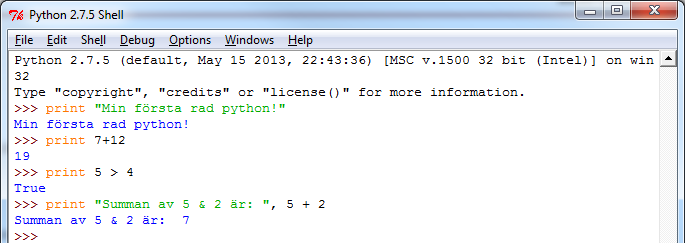
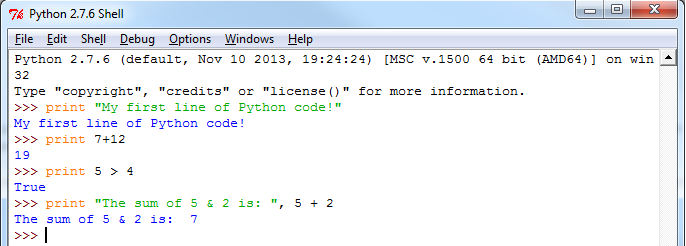
Updated exercises with new_names_for_functions_and_variables

Changed region(s): [[0.0, 0.0, 1.0, 1.0], [0.0, 0.6626, 0.4905, 0.9218], [0.0, 0.9506, 0.0613, 1.0]]

diff --git a/modules/m2/exercises/L04.md b/modules/m2/exercises/L04.md
@@ -18,10 +18,10 @@ print "*"*30
 print "Välkommen " + name + "!"
 print "I detta program kan du mulitplicera tre tal med varandra - så beräknar vi produkten åt dig."
 print "Du kommer nu att får mata in de tre tal som du vill multiplicera med"
-num1 = int(raw_input("Vilket är tal nr.1: "))
-num2 = int(raw_input("Vilket är tal nr.2: "))
-num3 = int(raw_input("Vilket är tal nr.3: "))
-result = num1 * num2 * num3
+num_1 = int(raw_input("Vilket är tal nr.1: "))
+num_2 = int(raw_input("Vilket är tal nr.2: "))
+num_3 = int(raw_input("Vilket är tal nr.3: "))
+result = num_1 * num_2 * num_3
 print "Produkten av dina valda tal är: " + str(result)
 print "*"*30
 {% endhighlight %}
@@ -29,17 +29,17 @@ print "*"*30
 Detta program skulle vi kunna dela upp i mindre bitar - för att få en bättre och tydligare struktur. T.ex. såhär:
 
 {% highlight python linenos %}
-def multiplyProgram():
+def multiply_program():
     ''' Huvudfunktionen för multiplikationsprogrammet '''
-    name = getName()
+    name = get_name()
     welcome(name)
-    num1 = getNumber(1)
-    num2 = getNumber(2)
-    num3 = getNumber(3)
-    result = multiplyThreeNumbers(num1, num2, num3)
-    printResult(result)
+    num_1 = get_number(1)
+    num_2 = get_number(2)
+    num_3 = get_number(3)
+    result = multiply_three_numbers(num_1, num_2, num_3)
+    print_result(result)
 	
-def getName():
+def get_name():
     ''' Frågar besökaren efter namn '''
     return raw_input("Vad heter du? ")
 
@@ -49,38 +49,38 @@ def welcome(name):
     print "I detta program kan du mulitplicera tre tal med varandra - så beräknar vi produkten åt dig."
     print "Du kommer nu att får mata in de tre tal som du vill multiplicera med"
 
-def getNumber(number):
+def get_number(number):
     ''' Frågar användaren efter ett tal '''
     return raw_input("Vilket är tal nr." + str(number) + ": ")
 
-def multiplyThreeNumbers(number1, number2, number3):
+def multiply_three_numbers(number_1, number_2, number_3):
     ''' Beräknar produkten av tre tal '''
-    return int(number1) * int(number2) * int(number3)
+    return int(number_1) * int(number_2) * int(number_3)
 
-def printResult(result):
+def print_result(result):
     ''' Skriver ut resultatet och tackar användaren '''
     print "Produkten av dina valda tal är: " + str(result)
     print "*"*30
 
-multiplyProgram()
+multiply_program()
 {% endhighlight %}
 
-Själva programmet ovan styrs av funktionen `multiplyProgram` (som sedan använder sig utav de övriga funktionerna) som vi kör längst ner i vårt kodexempel ovan. Skulle man vilka "optimera" funktionen `multiplyProgram` så skulle man kunna skriva funktionen på detta sätt:
+Själva programmet ovan styrs av funktionen `multiply_program` (som sedan använder sig utav de övriga funktionerna) som vi kör längst ner i vårt kodexempel ovan. Skulle man vilka "optimera" funktionen `multiply_program` så skulle man kunna skriva funktionen på detta sätt:
 
 {% highlight python linenos %}
-def multiplyProgram():
+def multiply_program():
     ''' Huvudfunktionen för multiplikationsprogrammet '''
-    welcome(getName())
-    printResult(multiplyThreeNumbers(getNumber(1), getNumber(2), getNumber(3)))
+    welcome(get_name())
+    print_result(multiply_three_numbers(get_number(1), get_number(2), get_number(3)))
 {% endhighlight %}
 
-Till en början kan det tyckas att man skriver "mycket" kod när man delar upp sitt program i funktioner. Men ju mer kod man skriver ju nödvändligare blir det. Detta inte bara för att få en bättre översikt över sitt program, utan också för att saker som felsökning blir mycket enklare om man delat upp sitt program i funktioner. Dessutom händer det ofta att man återanvänder funktioner, som t.ex. funktionen `getNumber` ovan - och man vill ju inte skriva samma kod mer än en gång!
+Till en början kan det tyckas att man skriver "mycket" kod när man delar upp sitt program i funktioner. Men ju mer kod man skriver ju nödvändligare blir det. Detta inte bara för att få en bättre översikt över sitt program, utan också för att saker som felsökning blir mycket enklare om man delat upp sitt program i funktioner. Dessutom händer det ofta att man återanvänder funktioner, som t.ex. funktionen `get_number` ovan - och man vill ju inte skriva samma kod mer än en gång!
 
 ### Övning 1
 
-I denna del ska vi återanvända funktionen `yardsToMeters` som ni skrev i den förra övningen. Ni ska uppdatera ert program så att de olika delarna nu hamnar i en egen funktion (en funktion gör en sak), och ni ska ha följande funktioner:
+I denna del ska vi återanvända funktionen `yards_to_meters` som ni skrev i den förra övningen. Ni ska uppdatera ert program så att de olika delarna nu hamnar i en egen funktion (en funktion gör en sak), och ni ska ha följande funktioner:
 
-* En huvudfunktion som styr hela programmet (likt `multiplyProgram` ovan)
+* En huvudfunktion som styr hela programmet (likt `multiply_program` ovan)
 * En funktion som välkomnar användaren
 * En funktion som frågar efter antalet meter
 * En funktion som beräknar resultatet

diff --git a/modules/m2/exercises/L05.md b/modules/m2/exercises/L05.md
@@ -17,7 +17,7 @@ Det finns en del standardfunktioner i Python som alltid finns tillgängliga (t.e
 Syntaxen för att importera en modul ser ut såhär:
 
 {% highlight python linenos %}
-import modulNamn
+import modul_namn
 {% endhighlight %}
 
 Det finns en modul i Python som heter _math_ som innehåller funktioner med matematiska beräkningar. Skulle vi vilja importera den modulen skriver vi i vårt dokument:
@@ -61,23 +61,23 @@ print ceil(3.5)
 
 ### Egna moduler
 
-Vi kan i Python även bygga våra egna moduler, vilket underlättar stuktur och översikt av era kommande program. En egen modul är helt enkelt ett Python-dokument med funktioner. Vi skulle kunna skapa en modul som hanterar addition och subtraktion och kalla modulen för `calcFunctions` och vi väljer då att döpa filen till _calcFunctions.py_. I _calcFunctions.py_ lägger vi till funktionerna `add` och `subtract` enligt: 
+Vi kan i Python även bygga våra egna moduler, vilket underlättar stuktur och översikt av era kommande program. En egen modul är helt enkelt ett Python-dokument med funktioner. Vi skulle kunna skapa en modul som hanterar addition och subtraktion och kalla modulen för `calc_functions` och vi väljer då att döpa filen till _calc_functions.py_. I _calc_functions.py_ lägger vi till funktionerna `add` och `subtract` enligt: 
 
 {% highlight python linenos %}
-#  calcFunctions.py
+#  calc_functions.py
 
-def add(num1, num2):
-	return int(num1) + int(num2)
+def add(num_1, num_2):
+	return int(num_1) + int(num_2)
 	
-def subtract(num1, num2):
-	return int(num1) - int(num2)
+def subtract(num_1, num_2):
+	return int(num_1) - int(num_2)
 {% endhighlight %}
 
-Nu har vi skapat modulen _calcFunctions_. Vi skapar nu en ny fil som innehåller vårt program och döper filen till _calculate.py_ (som ligger i samma mapp som _calcFunctions.py_). Nu vill vi importera den modul som vi skapat ovan, och sedan köra funktionerna `add` och `subtract`. Det kan vi göra enligt följande:
+Nu har vi skapat modulen _calc_functions_. Vi skapar nu en ny fil som innehåller vårt program och döper filen till _calculate.py_ (som ligger i samma mapp som _calc_functions.py_). Nu vill vi importera den modul som vi skapat ovan, och sedan köra funktionerna `add` och `subtract`. Det kan vi göra enligt följande:
 
 {% highlight python linenos %}
 # calculate.py
-from calcFunctions import *
+from calc_functions import *
 
 print add(2,5)
 print subtract(18,3)
@@ -103,16 +103,16 @@ Ni ska nu skriva ut dagens datum genom att använda er utav Pythons standardmodu
 
 I den sista övningen ska ni bygga en egen modul. Modulen ska innehålla tre funktioner:
 
-* krToUSD - Omvandlar svenska kronor till dollar
-* krToEUR - Omvandlar svenska kronor till euro
-* krToDK - Omvandlar svenska kronor till danska kronor
+* kr_to_usd - Omvandlar svenska kronor till dollar
+* kr_to_eur - Omvandlar svenska kronor till euro
+* kr_to_dk - Omvandlar svenska kronor till danska kronor
 
-Funktionerna ska returnera antalet dollar/euro/danska kronor. Modulen ska heta _currencies_ och ska sedan importeras till ert program. Ert program ska heta _currencyConverter_ och fungera på följande vis:
+Funktionerna ska returnera antalet dollar/euro/danska kronor. Modulen ska heta _currencies_ och ska sedan importeras till ert program. Ert program ska heta _currency_converter_ och fungera på följande vis:
 
 1. Programmet frågar efter hur många svenska kr man vill veta valutavärdet för
 2. Visa hur mycket dollar/euro/danska kronor man får för de inmatade svenska kronorna
 
-Ni kommer då att ha två filer _currencies.py_ och _currencyConverter.py_. Resultatet ska se ut på detta sätt:
+Ni kommer då att ha två filer _currencies.py_ och _currency_converter.py_. Resultatet ska se ut på detta sätt:
 
 ![](images/idle14.png)
 

diff --git a/modules/m2/exercises/L02.md b/modules/m2/exercises/L02.md
@@ -13,17 +13,17 @@ I den förra övningen så tittade vi på hur man skapar funktioner i Python och
 Vi ska i denna övningen titta på hur vi kan göra de funktioner som vi bygger mer dynamiska. Detta genom att _skicka med_ data till funktionerna som vi bygger. Den data som skickas från användaren när funktionen anropas kallas för _argument_ medan den data som tas emot av funktionen kallas för _parameter_. Ett snabbt exempel:
 
 {% highlight python linenos %}
-def shoutOut(text):
+def shout_out(text):
 	'''
 		Tar en sträng som input och skriver ut den i versaler
 	'''
 	print text.upper()
 	
-shoutOut("Vi testar!")
-shoutOut("En gång till!")
+shout_out("Vi testar!")
+shout_out("En gång till!")
 {% endhighlight %}
 
-I exemplet ovan så är `text` parametern till funktionen `shoutOut` och `Vi testar` är argumentet när funktionen anropas. Variabeln/parametern `text`i funktionen representerar alltså det som skickas som argument till funktionen. Vi kör funktionen två gånger, första gången representerar `text` i funktionen strängen `"Vi testar!"` och andra gången strängen `"En gång till!"`. Kör vi koden ovan så ser det ut såhär:
+I exemplet ovan så är `text` parametern till funktionen `shout_out` och `Vi testar` är argumentet när funktionen anropas. Variabeln/parametern `text`i funktionen representerar alltså det som skickas som argument till funktionen. Vi kör funktionen två gånger, första gången representerar `text` i funktionen strängen `"Vi testar!"` och andra gången strängen `"En gång till!"`. Kör vi koden ovan så ser det ut såhär:
 
 ![](images/idle4.png)
 
@@ -51,12 +51,12 @@ När ni skrivit klart funktionen ska resultatet vara:
 
 ### Övning 2 - Celcius till Fahrenheit
 
-Vi ska nu bygga en funktion som omvandlar temperatur i Celcius till Fahrenheit. Formeln för detta är: `Fahrenheit = Celcius  *  9/5 + 32`. Er uppgift är att skriva funktionen `celciusToFahrenheit` som ska ta antalet grader i Celcius som en parameter och ska fungera med följande anrop:
+Vi ska nu bygga en funktion som omvandlar temperatur i Celcius till Fahrenheit. Formeln för detta är: `fahrenheit = celcius  *  9/5 + 32`. Er uppgift är att skriva funktionen `celcius_to_fahrenheit` som ska ta antalet grader i Celcius som en parameter och ska fungera med följande anrop:
 
 {% highlight python linenos %}
-celciusToFahrenheit(0)
-celciusToFahrenheit(15)
-celciusToFahrenheit(30)
+celcius_to_fahrenheit(0)
+celcius_to_fahrenheit(15)
+celcius_to_fahrenheit(30)
 {% endhighlight %}
 
 Och funktionens utskrifter ska se ut på följande sätt:

diff --git a/modules/m2/exercises/L01.md b/modules/m2/exercises/L01.md
@@ -8,15 +8,15 @@ code: m2
 
 ## Syntax för funktioner
 
-En funktion i Python skapas genom att man använder nyckelordet `def` följt utav det namn som man vi ge sin funktion. Skulle man alltså vilja skapa en funktion som heter `myFunction` så skriver man:
+En funktion i Python skapas genom att man använder nyckelordet `def` följt utav det namn som man vi ge sin funktion. Skulle man alltså vilja skapa en funktion som heter `my_function` så skriver man:
 
 {% highlight python linenos %}
-def myFunction():
+def my_function():
     # Do something
     return
 {% endhighlight %}
 
-__Notera__ att man inte (som t.ex. i JavaScript) använder `{` och `}` för att deklarera vad som tillhör en funktion, utan istället så bestämmer _indenteringen_ vilken kod som tillhör vilken funktion. Studerar vi exemplet ovan så ser vi att den kod som tillhör funktionen `myFunction` är indenterad med 4st blankslag. Det är därför mycket viktigt att man har koll på sin indentering, inte bara för att man vill skriva tydlig och lättläst kod - utan för att det annars blir syntaxfel när man vill köra sitt program.
+__Notera__ att man inte (som t.ex. i JavaScript) använder `{` och `}` för att deklarera vad som tillhör en funktion, utan istället så bestämmer _indenteringen_ vilken kod som tillhör vilken funktion. Studerar vi exemplet ovan så ser vi att den kod som tillhör funktionen `my_function` är indenterad med 4st blankslag. Det är därför mycket viktigt att man har koll på sin indentering, inte bara för att man vill skriva tydlig och lättläst kod - utan för att det annars blir syntaxfel när man vill köra sitt program.
 
 ### En första funktion
 
@@ -69,10 +69,10 @@ I denna övningen ska vi utgå från befinglig kod och "lägga in" koden i en fu
 
 {% highlight python linenos %}
 print "I detta program beräknas produkten av två tal"
-num1 = int(raw_input("Ange tal 1: "))
-num2 = int(raw_input("Ange tal 2: "))
-product = num1 * num2
-print "Produkten av " + str(num1) + " och " + str(num2) + " är: " + str(product)
+num_1 = int(raw_input("Ange tal 1: "))
+num_2 = int(raw_input("Ange tal 2: "))
+product = num_1 * num_2
+print "Produkten av " + str(num_1) + " och " + str(num_2) + " är: " + str(product)
 print "--------------------------------"
 {% endhighlight %}
 

diff --git a/modules/m1/exercises/L03.md b/modules/m1/exercises/L03.md
@@ -17,14 +17,14 @@ Exempel på olika variabler:
 {% highlight python linenos %}
 name = "Anton"
 year = 2014
-leapYear = False
+leap_year = False
 {% endhighlight %}
 
-Som ni kanske noterat innehåller de tre olika variablerna ovan (name, year, leapYear) tre olika datatyper. De olika datatyperna finns till för att tydliggöra vilken typ av information som sparas i variabeln. Är det text, siffror eller sant/falskt värden som sparas i variabeln?
+Som ni kanske noterat innehåller de tre olika variablerna ovan (name, year, leap_year) tre olika datatyper. De olika datatyperna finns till för att tydliggöra vilken typ av information som sparas i variabeln. Är det text, siffror eller sant/falskt värden som sparas i variabeln?
 
 1. `Anton` är av typen *sträng* (`str`)
 2. `2014` är av typen *heltal* (`int`)
-3. `leapYear` är av typen *boolean* (`bool`)
+3. `leap_year` är av typen *boolean* (`bool`)
 
 Det finns fler datatyper i Python, men till en börjar så använder vi de tre i listan ovan.
 
@@ -77,7 +77,7 @@ Vi ska nu göra ett enkelt program som beräknar summan av två tal. De två tal
 1. Skapa en ny Python-fil som vi ska jobba i
 2. Kopiera in koden nedan till er Python-fil (och spara filen på lämplig plats)
 {% highlight python linenos %}
-print "Summan av " + str(firstNumber) + " och " + str(secondNumber) + " är " + str(firstNumber + secondNumber)
+print "Summan av " + str(first_number) + " och " + str(second_number) + " är " + str(first_number + second_number)
 {% endhighlight %}
 
 Ni behöver nu skapa variablerna "firstNumber" och "secondNumber" för att ert program ska fungera.

diff --git a/modules/m1/exercises/L01.md b/modules/m1/exercises/L01.md
@@ -29,10 +29,10 @@ När python och IDLE är installerade så ska ni bekanta er med IDLE då det är
 I IDLE kan man antingen direkt skriva in Python-kod, eller köra Python-kod (eller program) som man sparat i separata filer. För att se så att IDLE fungerar som det ska kan ni börja med att skriva in följande python-kod (föjt av ett enterslag efter varje rad):
 
 {% highlight python linenos %}
-print "Min första rad python!"
+print "My first line of Python code!"
 print 7+12
 print 5 > 4
-print "Summan av 5 & 2 är: ", 5 + 2
+print "The sum of 5 & 2 is: ", 5 + 2
 {% endhighlight %}
 
 Har ni skrivit av koden <i>exakt</i> som det står ovan, så borde det se ut på följande sätt:
@@ -42,3 +42,6 @@ Har ni skrivit av koden <i>exakt</i> som det står ovan, så borde det se ut på
 Skulle ni få upp ett felmeddelande (en röd text, se bild nedan) så har ni antagligen missat en bokstav/tecken någonstans (t.ex. ett citat-tecken). Dubbelkolla då vad ni skrivit in och försök igen (vi kommera att titta mer på felmeddelanden senare).
 
 ![Idle](images/idle3.png)
+
+## Teckenkodning UTF-8
+

diff --git a/modules/m1/exercises/L04.md b/modules/m1/exercises/L04.md
@@ -50,7 +50,7 @@ Vi ska nu bygga ett enkelt multiplikationsprogram. Programmet ska fråga använd
 * Tänk på att den input som man får från användaren genom funktionen `raw_input` är av datatypen sträng. Alltså - för att räkna med de tal som användaren skriver in behöver vi göra om numret till ett tal (till exempel genom att använda `int()`), t.ex. såhär:
 
 {% highlight python linenos %}
-number1 = int(raw_input("Tal 1: "))
+first_number = int(raw_input("Tal 1: "))
 {% endhighlight %}
 
 I övrigt är det upp till er hur ni konstruerar programmet, så länge resultatet liknar utskriftsbilden ovan.
